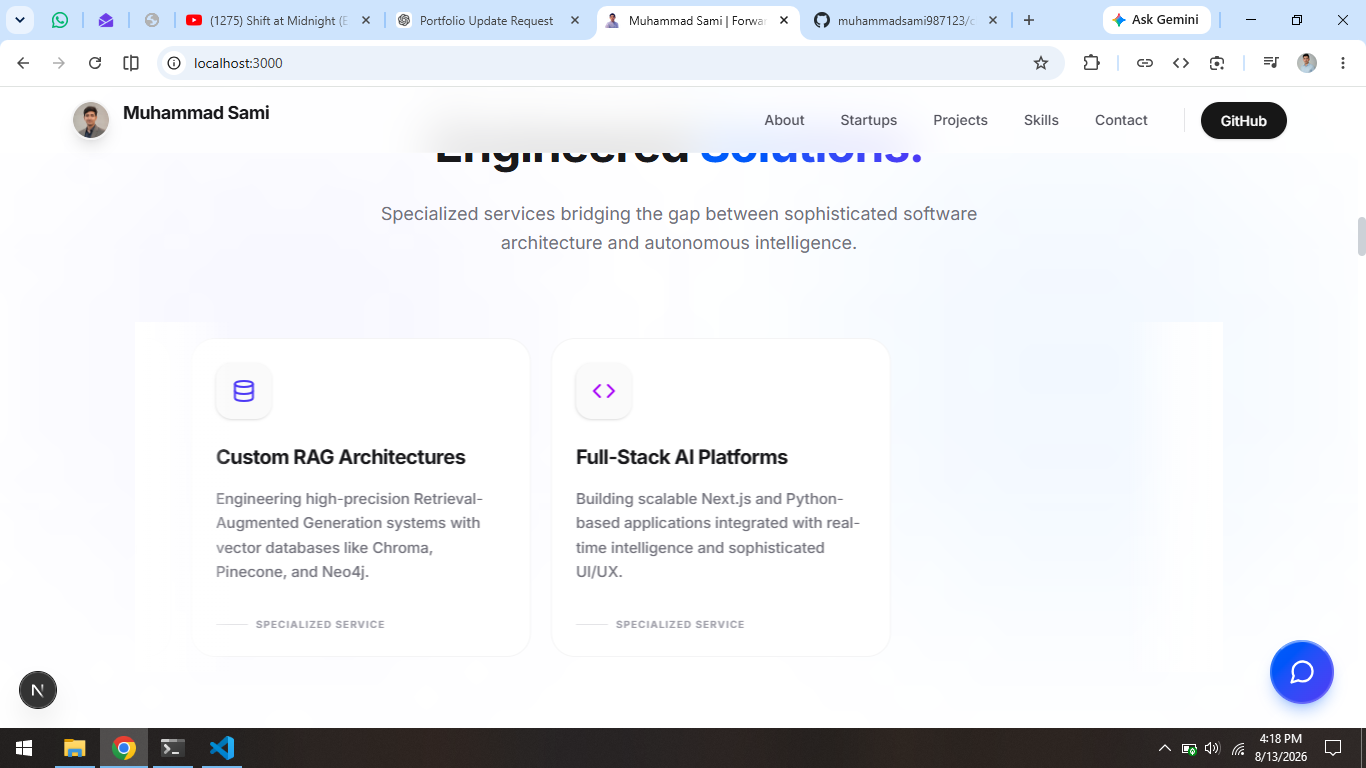
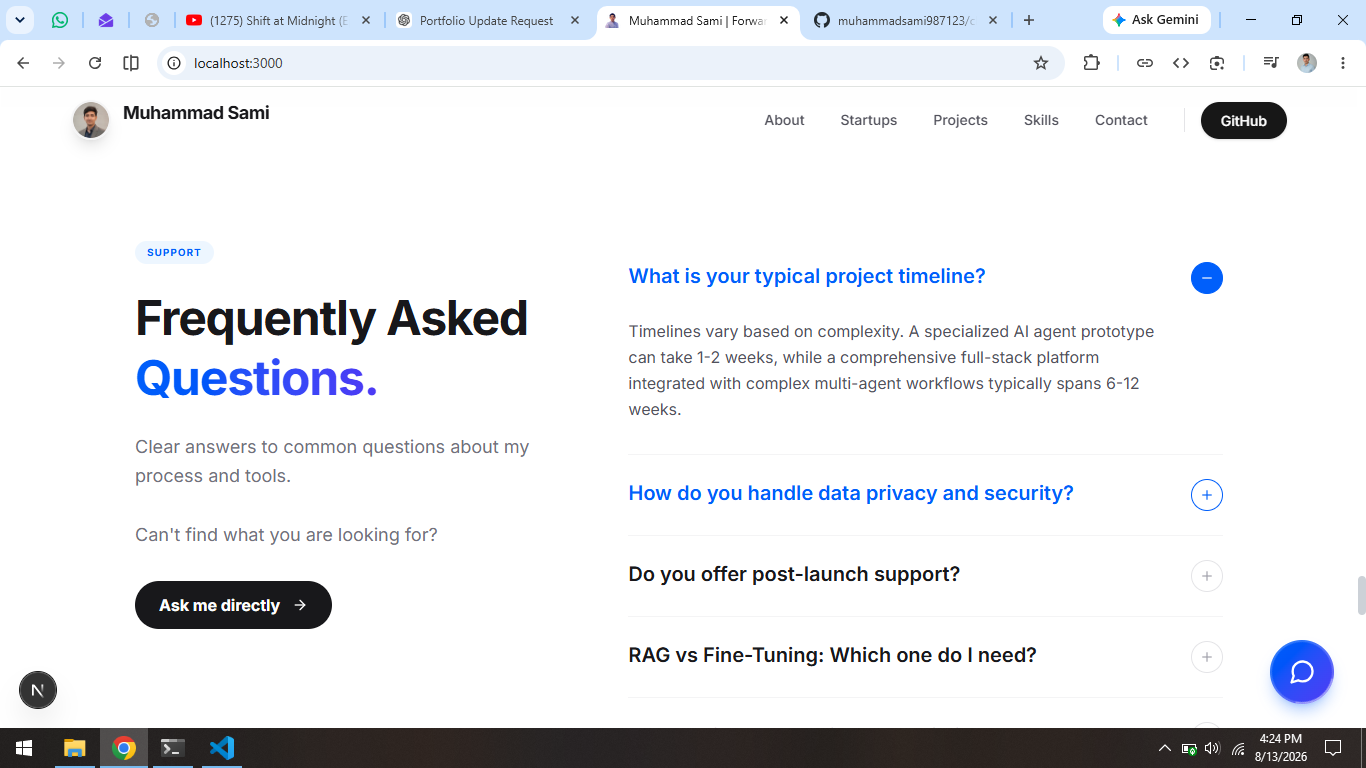
style: enhance Contact and FAQ components with improved styling and layout adjustments

diff --git a/src/components/FAQ.tsx b/src/components/FAQ.tsx
@@ -87,53 +87,60 @@ export default function FAQ() {
                         </motion.a>
                     </div>
 
-                    {/* Right Column: Accordion */}
-                    <div className="lg:col-span-7">
-                        <div className="divide-y divide-zinc-100 dark:divide-zinc-800">
-                            {faqs.map((faq, index) => (
+                    {/* Right Column: Accordion Cards */}
+                    <div className="lg:col-span-7 space-y-3 sm:space-y-4">
+                        {faqs.map((faq, index) => {
+                            const isOpen = openIndex === index;
+                            return (
                                 <motion.div
                                     key={index}
                                     initial={{ opacity: 0, y: 10 }}
                                     whileInView={{ opacity: 1, y: 0 }}
                                     viewport={{ once: true }}
-                                    transition={{ delay: index * 0.1 }}
-                                    className="group"
+                                    transition={{ delay: index * 0.05 }}
+                                    className={`rounded-2xl border transition-all duration-300 ${
+                                        isOpen
+                                            ? 'border-blue-500/40 bg-blue-50/30 dark:bg-zinc-900/80 dark:border-blue-500/30 shadow-md shadow-blue-500/5'
+                                            : 'border-zinc-200 dark:border-zinc-800 bg-white dark:bg-zinc-900/50 hover:border-zinc-300 dark:hover:border-zinc-700'
+                                    }`}
                                 >
                                     <button
-                                        onClick={() => setOpenIndex(openIndex === index ? null : index)}
-                                        className="w-full py-6 flex items-start justify-between text-left focus:outline-none"
+                                        onClick={() => setOpenIndex(isOpen ? null : index)}
+                                        className="w-full p-5 sm:p-6 flex items-center justify-between text-left focus:outline-none gap-4"
                                     >
-                                        <span className={`text-lg sm:text-xl font-semibold transition-colors duration-300 ${openIndex === index
-                                            ? 'text-blue-600 dark:text-blue-400'
-                                            : 'text-zinc-900 dark:text-white group-hover:text-blue-600 dark:group-hover:text-blue-400'
-                                            }`}>
+                                        <span className={`text-base sm:text-lg font-bold transition-colors duration-300 ${
+                                            isOpen
+                                                ? 'text-blue-600 dark:text-blue-400'
+                                                : 'text-zinc-900 dark:text-white'
+                                        }`}>
                                             {faq.question}
                                         </span>
-                                        <span className={`ml-6 flex-shrink-0 flex items-center justify-center w-8 h-8 rounded-full border transition-all duration-300 ${openIndex === index
-                                            ? 'border-blue-600 bg-blue-600 text-white rotate-0'
-                                            : 'border-zinc-200 dark:border-zinc-800 text-zinc-400 group-hover:border-blue-600 group-hover:text-blue-600'
-                                            }`}>
-                                            {openIndex === index ? <FiMinus size={14} /> : <FiPlus size={14} />}
+                                        <span className={`flex-shrink-0 flex items-center justify-center w-8 h-8 rounded-full border transition-all duration-300 ${
+                                            isOpen
+                                                ? 'border-blue-600 bg-blue-600 text-white rotate-0'
+                                                : 'border-zinc-200 dark:border-zinc-700 text-zinc-500 dark:text-zinc-400 bg-zinc-50 dark:bg-zinc-800'
+                                        }`}>
+                                            {isOpen ? <FiMinus size={14} /> : <FiPlus size={14} />}
                                         </span>
                                     </button>
                                     <AnimatePresence>
-                                        {openIndex === index && (
+                                        {isOpen && (
                                             <motion.div
                                                 initial={{ height: 0, opacity: 0 }}
                                                 animate={{ height: 'auto', opacity: 1 }}
                                                 exit={{ height: 0, opacity: 0 }}
-                                                transition={{ duration: 0.3, ease: "easeInOut" }}
+                                                transition={{ duration: 0.25, ease: "easeInOut" }}
                                                 className="overflow-hidden"
                                             >
-                                                <div className="pb-6 sm:pb-8 pr-4 sm:pr-12 text-zinc-600 dark:text-zinc-400 leading-relaxed text-sm sm:text-base">
+                                                <div className="px-5 sm:px-6 pb-6 text-zinc-600 dark:text-zinc-400 leading-relaxed text-sm sm:text-base border-t border-zinc-100 dark:border-zinc-800/60 pt-4">
                                                     {faq.answer}
                                                 </div>
                                             </motion.div>
                                         )}
                                     </AnimatePresence>
                                 </motion.div>
-                            ))}
-                        </div>
+                            );
+                        })}
                     </div>
                 </div>
             </div>

diff --git a/src/app/Contact/page.tsx b/src/app/Contact/page.tsx
@@ -88,7 +88,7 @@ export default function Contact() {
           >
             <div className="grid grid-cols-1 sm:grid-cols-2 lg:grid-cols-1 gap-4 sm:gap-6">
               {contactInfo.map((info, index) => (
-                <div key={index} className="flex items-center gap-4 sm:gap-6 p-5 sm:p-6 bg-zinc-50 dark:bg-zinc-900/50 rounded-2xl border border-zinc-100 dark:border-zinc-800 transition-colors hover:border-blue-500/30">
+                <div key={index} className="flex items-center gap-4 sm:gap-6 p-5 sm:p-6 bg-white dark:bg-zinc-900/50 rounded-2xl border border-zinc-200 dark:border-zinc-800 transition-all hover:border-blue-500/50 shadow-sm">
                   <div className="text-xl sm:text-2xl text-blue-600 dark:text-blue-400">
                     {info.icon}
                   </div>
@@ -100,7 +100,7 @@ export default function Contact() {
               ))}
             </div>
 
-            <div className="hidden lg:block pt-10 border-t border-zinc-100 dark:border-zinc-800">
+            <div className="hidden lg:block pt-10 border-t border-zinc-200 dark:border-zinc-800">
               <p className="text-[10px] uppercase tracking-widest font-bold text-zinc-400 mb-6">Social Networks</p>
               <div className="flex gap-3">
                 {[
@@ -130,7 +130,7 @@ export default function Contact() {
             viewport={{ once: true }}
             className="lg:col-span-7"
           >
-            <div className="bg-white dark:bg-zinc-900/50 border border-zinc-100 dark:border-zinc-800 p-6 sm:p-8 lg:p-12 rounded-2xl shadow-xl shadow-zinc-900/5">
+            <div className="bg-white dark:bg-zinc-900/50 border border-zinc-200 dark:border-zinc-800 p-6 sm:p-8 lg:p-12 rounded-2xl shadow-xl shadow-zinc-900/5">
               <form onSubmit={handleSubmit} className="space-y-8">
                 <div className="grid grid-cols-1 sm:grid-cols-2 gap-6 sm:gap-8">
                   <div className="space-y-2.5 sm:space-y-3">
@@ -142,7 +142,7 @@ export default function Contact() {
                       value={formData.name}
                       onChange={handleChange}
                       placeholder="Enter your name"
-                      className="w-full h-12 sm:h-14 px-5 sm:px-6 rounded-xl bg-zinc-50 dark:bg-zinc-800/50 border border-zinc-100 dark:border-zinc-700/50 focus:ring-2 focus:ring-blue-600 transition-all text-sm outline-none"
+                      className="w-full h-12 sm:h-14 px-5 sm:px-6 rounded-xl bg-zinc-50 dark:bg-zinc-800/50 border border-zinc-200 dark:border-zinc-700 focus:border-blue-600 focus:ring-2 focus:ring-blue-600/20 transition-all text-sm outline-none"
                     />
                   </div>
                   <div className="space-y-2.5 sm:space-y-3">
@@ -154,7 +154,7 @@ export default function Contact() {
                       value={formData.email}
                       onChange={handleChange}
                       placeholder="name@company.com"
-                      className="w-full h-12 sm:h-14 px-5 sm:px-6 rounded-xl bg-zinc-50 dark:bg-zinc-800/50 border border-zinc-100 dark:border-zinc-700/50 focus:ring-2 focus:ring-blue-600 transition-all text-sm outline-none"
+                      className="w-full h-12 sm:h-14 px-5 sm:px-6 rounded-xl bg-zinc-50 dark:bg-zinc-800/50 border border-zinc-200 dark:border-zinc-700 focus:border-blue-600 focus:ring-2 focus:ring-blue-600/20 transition-all text-sm outline-none"
                     />
                   </div>
                 </div>
@@ -168,7 +168,7 @@ export default function Contact() {
                     onChange={handleChange}
                     rows={4}
                     placeholder="Tell me about your project..."
-                    className="w-full px-5 sm:px-6 py-4 sm:py-5 rounded-xl bg-zinc-50 dark:bg-zinc-800/50 border border-zinc-100 dark:border-zinc-700/50 focus:ring-2 focus:ring-blue-600 transition-all text-sm resize-none outline-none"
+                    className="w-full px-5 sm:px-6 py-4 sm:py-5 rounded-xl bg-zinc-50 dark:bg-zinc-800/50 border border-zinc-200 dark:border-zinc-700 focus:border-blue-600 focus:ring-2 focus:ring-blue-600/20 transition-all text-sm resize-none outline-none"
                   ></textarea>
                 </div>
 
